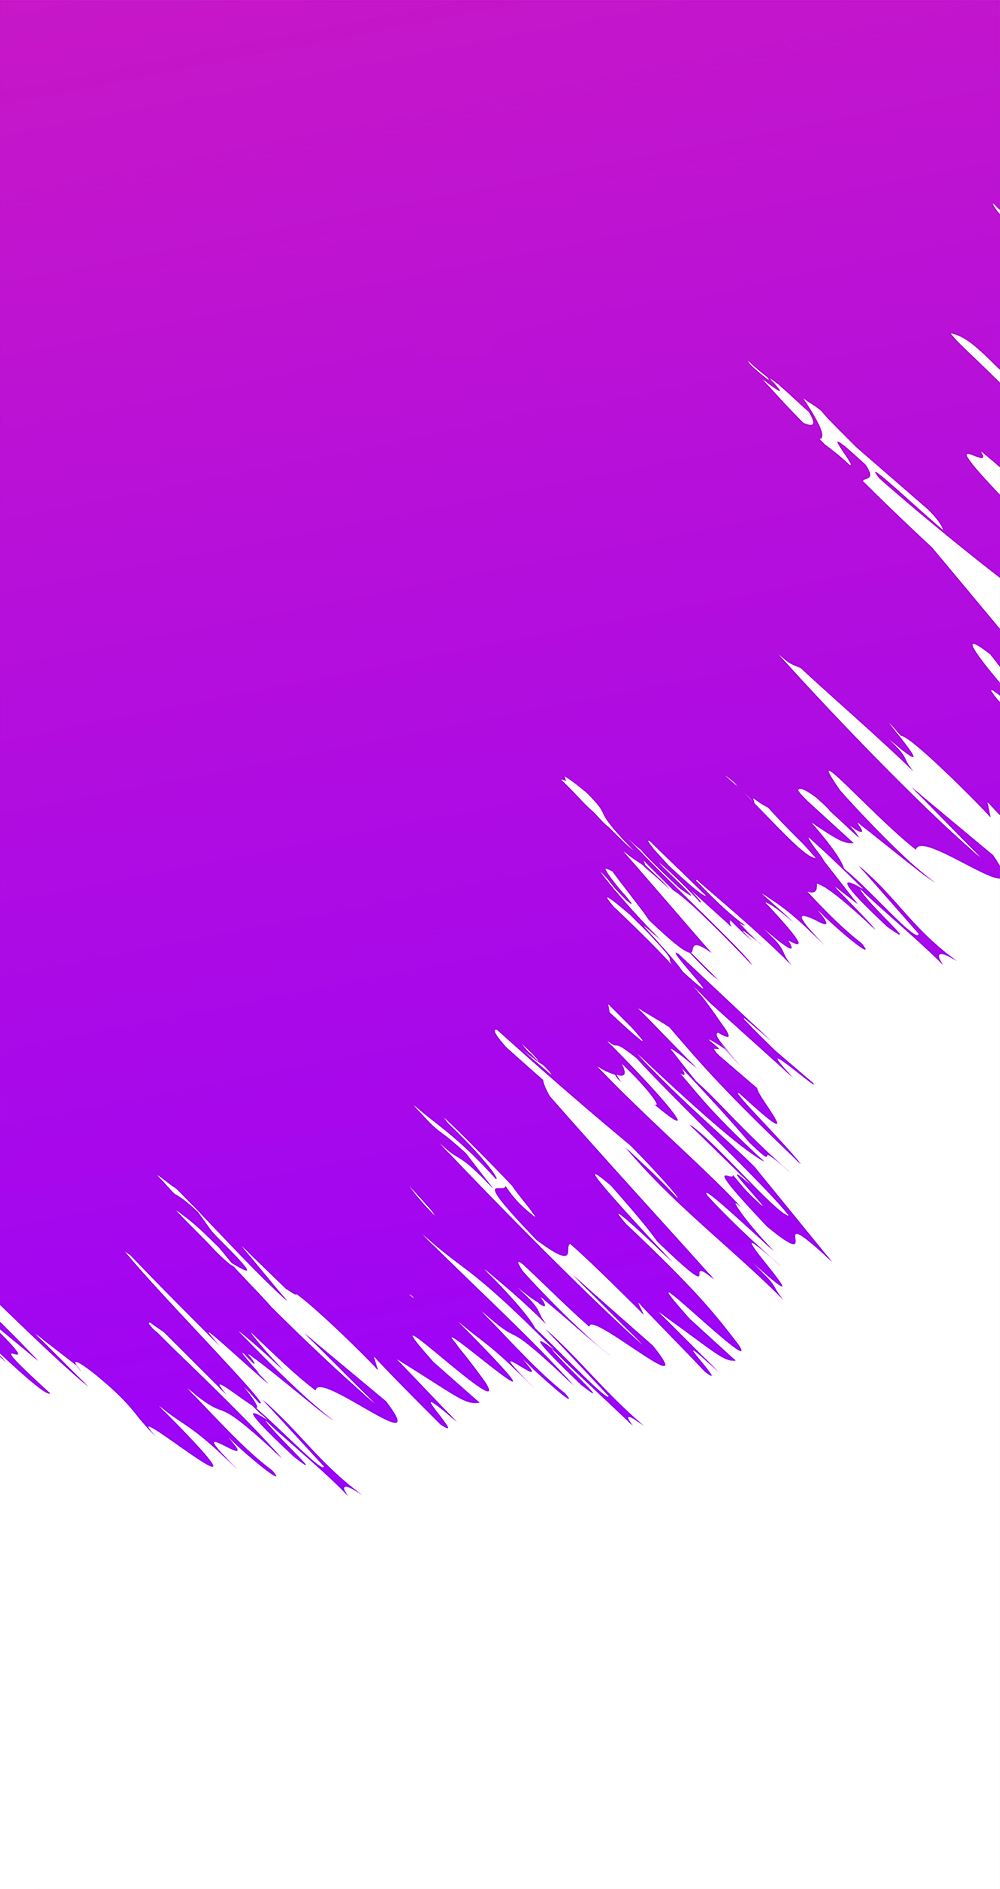
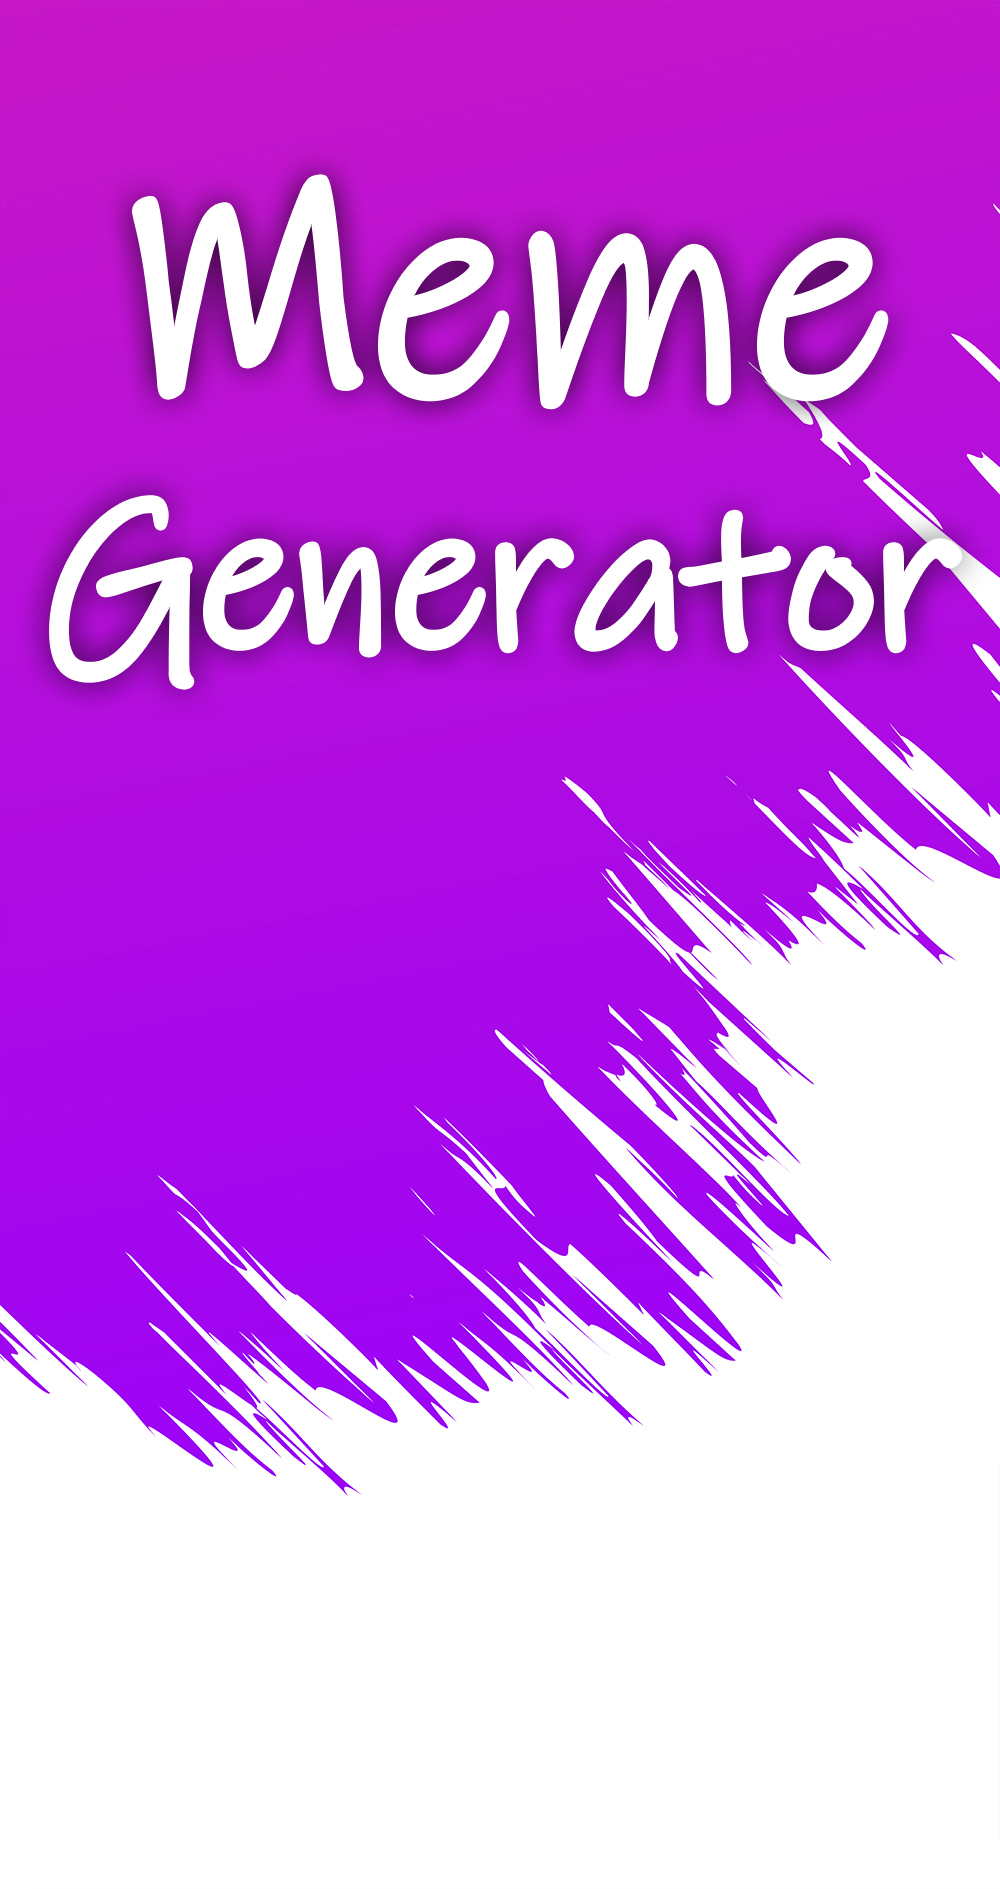
asdsad

Changed region(s): [[0.124, 0.0625, 0.899, 0.2186], [0.031, 0.2499, 0.992, 0.3748]]

diff --git a/src/App.js b/src/App.js
@@ -30,15 +30,15 @@ class App extends Component {
               <Router>
                 <Switch>
                     <Route exact path="/" component={Home} />
-                    <Route exact path="/Blog" component={Blog} />
-                    <Route exact path="/About" component={About} />
-                    <Route exact path="/LogIn" component={LogIn} />
-                    <Route exact path="/LogInGoogle" component={GLogIn} />
-                    <Route exact path="/SingUp" component={SingUp} />
+                    <Route exact path="./Blog" component={Blog} />
+                    <Route exact path="./About" component={About} />
+                    <Route exact path="./LogIn" component={LogIn} />
+                    <Route exact path="./LogInGoogle" component={GLogIn} />
+                    <Route exact path="./SingUp" component={SingUp} />
 
-                    <Route exact path="/RandomProjects/MemeGenerator" component={MemeGenerator} />
-                    <Route exact path="/RandomProjects/NumberChanger" component={NumberChanger} />
-                    <Route exact path="/RandomProjects/RandomUserFinder" component={RandomUserList} />
+                    <Route exact path="./RandomProjects/MemeGenerator" component={MemeGenerator} />
+                    <Route exact path="./RandomProjects/NumberChanger" component={NumberChanger} />
+                    <Route exact path="./RandomProjects/RandomUserFinder" component={RandomUserList} />
                     <Redirect to="404" />
                 </Switch>
             </Router>

diff --git a/src/Component/NavBar.js b/src/Component/NavBar.js
@@ -27,23 +27,23 @@ function NavBar() {
         }
 
         if(newValue === 1){
-            window.location.replace("/Blog");
+            window.location.replace("./Blog");
             windowID = newValue
 
 
         }
         if(newValue === 2){
-            window.location.replace("/About");
+            window.location.replace("./About");
             windowID = newValue
         }
 
         if(newValue === 3){
-            window.location.replace("/LogIn");
+            window.location.replace("./LogIn");
             windowID = newValue
         }
 
         if(newValue === 4){
-            window.location.replace("/SingUp");
+            window.location.replace("./SingUp");
             windowID = newValue
         }
 

diff --git a/src/Pages/Home.js b/src/Pages/Home.js
@@ -39,7 +39,7 @@ function Home() {
                     variant="h5"
                     fontSize={45}
                     >
-                  Meme Generator
+                  
               </Box >
             </div>
 
